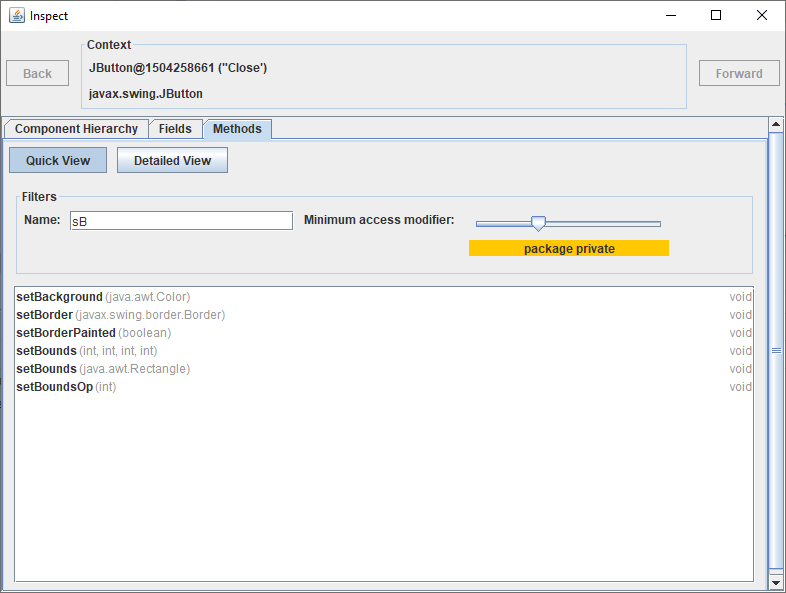
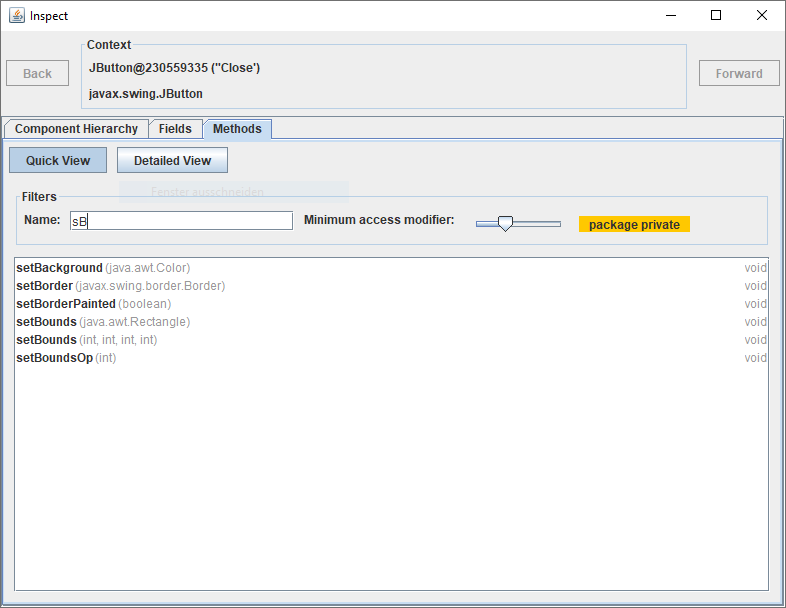
MOD GeneralSettingsPanel, MinimumAccessModifierControls: Distinguish between the minimum access modifier for fields and the minimum access modifier for methods

diff --git a/marple/src/dd/kms/marple/framework/common/PreferenceUtils.java b/marple/src/dd/kms/marple/framework/common/PreferenceUtils.java
@@ -14,6 +14,7 @@ import dd.kms.marple.framework.common.XmlUtils.ParseException;
 import dd.kms.zenodot.api.common.AccessModifier;
 import dd.kms.zenodot.api.settings.EvaluationMode;
 import dd.kms.zenodot.api.settings.ParserSettings;
+import dd.kms.zenodot.api.settings.ParserSettingsBuilder;
 import org.w3c.dom.Document;
 import org.w3c.dom.Element;
 import org.w3c.dom.Node;
@@ -108,7 +109,7 @@ public class PreferenceUtils
 		ExpressionEvaluator evaluator = settings.getEvaluator();
 		CustomActionSettings customActionSettings = settings.getCustomActionSettings();
 		writeEvaluationMode(root, evaluator);
-		writeMinimumAccessModifier(root, evaluator);
+		writeMinimumAccessModifiers(root, evaluator);
 		writeImportedPackages(root, evaluator);
 		writeImportedClasses(root, evaluator);
 		writeCustomActions(root, customActionSettings);
@@ -124,7 +125,7 @@ public class PreferenceUtils
 		ExpressionEvaluator evaluator = settings.getEvaluator();
 		CustomActionSettings customActionSettings = settings.getCustomActionSettings();
 		readEvaluationMode(root, evaluator);
-		readMinimumAccessModifier(root, evaluator);
+		readMinimumAccessModifiers(root, evaluator);
 		readImportedPackages(root, evaluator);
 		readImportedClasses(root, evaluator);
 		readCustomActions(root, customActionSettings);
@@ -153,17 +154,36 @@ public class PreferenceUtils
 		}
 	}
 
-	private static void writeMinimumAccessModifier(Element root, ExpressionEvaluator evaluator) {
-		AccessModifier minimumAccessModifier = evaluator.getParserSettings().getMinimumAccessModifier();
-		XmlUtils.writeValueToChild(root, "MinimumAccessModifier", minimumAccessModifier, ACCESS_MODIFIER_STRING_REPRESENTATIONS::get);
+	private static void writeMinimumAccessModifiers(Element root, ExpressionEvaluator evaluator) {
+		AccessModifier minimumFieldAccessModifier = evaluator.getParserSettings().getMinimumFieldAccessModifier();
+		AccessModifier minimumMethodAccessModifier = evaluator.getParserSettings().getMinimumMethodAccessModifier();
+		XmlUtils.writeValueToChild(root, "MinimumFieldAccessModifier", minimumFieldAccessModifier, ACCESS_MODIFIER_STRING_REPRESENTATIONS::get);
+		XmlUtils.writeValueToChild(root, "MinimumMethodAccessModifier", minimumMethodAccessModifier, ACCESS_MODIFIER_STRING_REPRESENTATIONS::get);
 	}
 
-	private static void readMinimumAccessModifier(Element root, ExpressionEvaluator evaluator) throws ParseException {
+	private static void readMinimumAccessModifiers(Element root, ExpressionEvaluator evaluator) throws ParseException {
+		ParserSettingsBuilder parserSettingsBuilder = evaluator.getParserSettings().builder();
+
+		AccessModifier minimumFieldAccessModifier = XmlUtils.readValueFromChild(root, "MinimumFieldAccessModifier", ACCESS_MODIFIER_STRING_REPRESENTATIONS.inverse()::get);
+		if (minimumFieldAccessModifier != null) {
+			parserSettingsBuilder.minimumFieldAccessModifier(minimumFieldAccessModifier);
+		}
+
+		AccessModifier minimumMethodAccessModifier = XmlUtils.readValueFromChild(root, "MinimumMethodAccessModifier", ACCESS_MODIFIER_STRING_REPRESENTATIONS.inverse()::get);
+		if (minimumMethodAccessModifier != null) {
+			parserSettingsBuilder.minimumMethodAccessModifier(minimumMethodAccessModifier);
+		}
+
+
 		AccessModifier minimumAccessModifier = XmlUtils.readValueFromChild(root, "MinimumAccessModifier", ACCESS_MODIFIER_STRING_REPRESENTATIONS.inverse()::get);
 		if (minimumAccessModifier != null) {
-			ParserSettings parserSettings = evaluator.getParserSettings().builder().minimumAccessModifier(minimumAccessModifier).build();
-			evaluator.setParserSettings(parserSettings);
+			// old serialization
+			parserSettingsBuilder
+				.minimumFieldAccessModifier(minimumAccessModifier)
+				.minimumMethodAccessModifier(minimumAccessModifier);
 		}
+		ParserSettings parserSettings = parserSettingsBuilder.build();
+		evaluator.setParserSettings(parserSettings);
 	}
 
 	private static void writeImportedPackages(Element root, ExpressionEvaluator evaluator) {

diff --git a/marple/src/dd/kms/marple/impl/gui/evaluator/GeneralSettingsPanel.java b/marple/src/dd/kms/marple/impl/gui/evaluator/GeneralSettingsPanel.java
@@ -2,6 +2,7 @@ package dd.kms.marple.impl.gui.evaluator;
 
 import dd.kms.marple.api.InspectionContext;
 import dd.kms.marple.api.gui.Disposable;
+import dd.kms.marple.impl.gui.common.AccessModifierInput;
 
 import javax.swing.*;
 import java.awt.*;
@@ -11,7 +12,8 @@ import static java.awt.GridBagConstraints.*;
 
 public class GeneralSettingsPanel extends JPanel implements Disposable
 {
-	private final JLabel						minimumAccessModifierLabel		= new JLabel("Minimum access modifier:");
+	private final JLabel						minimumFieldAccessModifierLabel		= new JLabel("Minimum field access modifier:");
+	private final JLabel						minimumMethodAccessModifierLabel	= new JLabel("Minimum method access modifier:");
 	private final MinimumAccessModifierControls	minimumAccessModifierControls;
 
 	private final JLabel						evaluationModeLabel = new JLabel("Evaluation mode:");
@@ -21,15 +23,21 @@ public class GeneralSettingsPanel extends JPanel implements Disposable
 		super(new GridBagLayout());
 
 		minimumAccessModifierControls = new MinimumAccessModifierControls(context);
-		evaluationModePanel = new EvaluationModePanel(context, EvaluationModePanel.Alignment.VERTICAL);
+		AccessModifierInput minimumFieldAccessModifierInput = minimumAccessModifierControls.getMinimumFieldAccessModifierInput();
+		AccessModifierInput minimumMethodAccessModifierInput = minimumAccessModifierControls.getMinimumMethodAccessModifierInput();
 
-		add(minimumAccessModifierLabel,					new GridBagConstraints(0, 0, 1, 1, 0.0, 0.0, NORTHWEST, NONE, DEFAULT_INSETS, 0, 0));
-		add(minimumAccessModifierControls.getInput(),	new GridBagConstraints(1, 0, REMAINDER, 1, 1.0, 0.0, NORTHWEST, HORIZONTAL, DEFAULT_INSETS, 0, 0));
+		evaluationModePanel = new EvaluationModePanel(context);
 
-		add(evaluationModeLabel,						new GridBagConstraints(0, 1, 1, 1, 0.0, 0.0, NORTHWEST, NONE, DEFAULT_INSETS, 0, 0));
-		add(evaluationModePanel,						new GridBagConstraints(1, 1, REMAINDER, 1, 1.0, 0.0, NORTHWEST, HORIZONTAL, DEFAULT_INSETS, 0, 0));
+		add(minimumFieldAccessModifierLabel,	new GridBagConstraints(0, 0, 1, 1, 0.0, 0.0, NORTHWEST, NONE, DEFAULT_INSETS, 0, 0));
+		add(minimumFieldAccessModifierInput,	new GridBagConstraints(1, 0, REMAINDER, 1, 1.0, 0.0, NORTHWEST, HORIZONTAL, DEFAULT_INSETS, 0, 0));
 
-		add(new JLabel(),								new GridBagConstraints(0, 3, REMAINDER, 1, 1.0, 1.0, NORTHWEST, BOTH, DEFAULT_INSETS, 0, 0));
+		add(minimumMethodAccessModifierLabel,	new GridBagConstraints(0, 1, 1, 1, 0.0, 0.0, NORTHWEST, NONE, DEFAULT_INSETS, 0, 0));
+		add(minimumMethodAccessModifierInput,	new GridBagConstraints(1, 1, REMAINDER, 1, 1.0, 0.0, NORTHWEST, HORIZONTAL, DEFAULT_INSETS, 0, 0));
+
+		add(evaluationModeLabel,				new GridBagConstraints(0, 2, 1, 1, 0.0, 0.0, NORTHWEST, NONE, DEFAULT_INSETS, 0, 0));
+		add(evaluationModePanel,				new GridBagConstraints(1, 2, REMAINDER, 1, 1.0, 0.0, NORTHWEST, HORIZONTAL, DEFAULT_INSETS, 0, 0));
+
+		add(new JLabel(),						new GridBagConstraints(0, 3, REMAINDER, 1, 1.0, 1.0, NORTHWEST, BOTH, DEFAULT_INSETS, 0, 0));
 
 		minimumAccessModifierControls.updateControls();
 		evaluationModePanel.updateControls();

diff --git a/marple/src/dd/kms/marple/impl/gui/evaluator/MinimumAccessModifierControls.java b/marple/src/dd/kms/marple/impl/gui/evaluator/MinimumAccessModifierControls.java
@@ -9,7 +9,8 @@ import dd.kms.zenodot.api.settings.ParserSettingsBuilder;
 
 class MinimumAccessModifierControls
 {
-	private final AccessModifierInput	minimumAccessModifierInput	= new AccessModifierInput();
+	private final AccessModifierInput	minimumFieldAccessModifierInput		= new AccessModifierInput();
+	private final AccessModifierInput	minimumMethodAccessModifierInput	= new AccessModifierInput();
 
 	private final InspectionContext		context;
 
@@ -18,26 +19,44 @@ class MinimumAccessModifierControls
 
 		updateControls();
 
-		minimumAccessModifierInput.addChangeListener(e -> onMinimumAccessModifierChanged());
+		minimumFieldAccessModifierInput.addChangeListener(e -> onMinimumFieldAccessModifierChanged());
+		minimumMethodAccessModifierInput.addChangeListener(e -> onMinimumMethodAccessModifierChanged());
 	}
 
 	void updateControls() {
-		minimumAccessModifierInput.setAccessModifier(getMinimumAccessModifier());
+		minimumFieldAccessModifierInput.setAccessModifier(getMinimumFieldAccessModifier());
+		minimumMethodAccessModifierInput.setAccessModifier(getMinimumMethodAccessModifier());
 	}
 
-	AccessModifierInput getInput() {
-		return minimumAccessModifierInput;
+	AccessModifierInput getMinimumFieldAccessModifierInput() {
+		return minimumFieldAccessModifierInput;
 	}
 
-	private AccessModifier getMinimumAccessModifier() {
-		return ExpressionEvaluators.getValue(ParserSettings::getMinimumAccessModifier, context);
+	AccessModifierInput getMinimumMethodAccessModifierInput() {
+		return minimumMethodAccessModifierInput;
 	}
 
-	private void setMinimumAccessModifier(AccessModifier minimumAccessModifier) {
-		ExpressionEvaluators.setValue(minimumAccessModifier, ParserSettingsBuilder::minimumAccessModifier, context);
+	private AccessModifier getMinimumFieldAccessModifier() {
+		return ExpressionEvaluators.getValue(ParserSettings::getMinimumFieldAccessModifier, context);
 	}
 
-	private void onMinimumAccessModifierChanged() {
-		setMinimumAccessModifier(minimumAccessModifierInput.getAccessModifier());
+	private AccessModifier getMinimumMethodAccessModifier() {
+		return ExpressionEvaluators.getValue(ParserSettings::getMinimumMethodAccessModifier, context);
+	}
+
+	private void setMinimumFieldAccessModifier(AccessModifier minimumFieldAccessModifier) {
+		ExpressionEvaluators.setValue(minimumFieldAccessModifier, ParserSettingsBuilder::minimumFieldAccessModifier, context);
+	}
+
+	private void setMinimumMethodAccessModifier(AccessModifier minimumMethodAccessModifier) {
+		ExpressionEvaluators.setValue(minimumMethodAccessModifier, ParserSettingsBuilder::minimumMethodAccessModifier, context);
+	}
+
+	private void onMinimumFieldAccessModifierChanged() {
+		setMinimumFieldAccessModifier(minimumFieldAccessModifierInput.getAccessModifier());
+	}
+
+	private void onMinimumMethodAccessModifierChanged() {
+		setMinimumMethodAccessModifier(minimumMethodAccessModifierInput.getAccessModifier());
 	}
 }

diff --git a/marple/src/dd/kms/marple/impl/gui/evaluator/EvaluationModePanel.java b/marple/src/dd/kms/marple/impl/gui/evaluator/EvaluationModePanel.java
@@ -5,6 +5,7 @@ import com.google.common.collect.ImmutableBiMap;
 import com.google.common.collect.ImmutableMap;
 import dd.kms.marple.api.InspectionContext;
 import dd.kms.marple.impl.evaluator.ExpressionEvaluators;
+import dd.kms.zenodot.api.common.AccessModifier;
 import dd.kms.zenodot.api.settings.EvaluationMode;
 import dd.kms.zenodot.api.settings.ParserSettings;
 import dd.kms.zenodot.api.settings.ParserSettingsBuilder;
@@ -69,29 +70,33 @@ class EvaluationModePanel extends JPanel
 
 	private final InspectionContext	context;
 
-	EvaluationModePanel(InspectionContext context, Alignment alignment) {
+	EvaluationModePanel(InspectionContext context) {
 		super(new GridBagLayout());
 
 		this.context = context;
 
-		switch (alignment) {
-			case HORIZONTAL:
-				add(evaluationModeSlider,	new GridBagConstraints(0, 0, 1, 1, 0.0, 0.0, WEST, NONE, DEFAULT_INSETS, 0, 0));
-				add(evaluationModeLabel,	new GridBagConstraints(1, 0, 1, 1, 0.0, 0.0, WEST, NONE, DEFAULT_INSETS, 0, 0));
-				break;
-			case VERTICAL:
-				add(evaluationModeSlider,	new GridBagConstraints(0, 0, 1, 1, 1.0, 0.0, WEST, HORIZONTAL, DEFAULT_INSETS, 0, 0));
-				add(evaluationModeLabel,	new GridBagConstraints(0, 1, 1, 1, 1.0, 0.0, CENTER, HORIZONTAL, new Insets(3, 5, 10, 5), 0, 0));
-				break;
-			default:
-				throw new UnsupportedOperationException("Unsupported alignment: " + alignment);
-		}
+		add(evaluationModeSlider,	new GridBagConstraints(0, 0, 1, 1, 1.0, 0.0, WEST, HORIZONTAL, DEFAULT_INSETS, 0, 0));
+		add(evaluationModeLabel,	new GridBagConstraints(1, 0, 1, 1, 0.0, 0.0, WEST, NONE, DEFAULT_INSETS, 0, 0));
 
 		evaluationModeLabel.setHorizontalAlignment(SwingConstants.CENTER);
+
+		setPreferredEvaluationModeLabelSize();
 
 		updateControls();
 
 		evaluationModeSlider.addChangeListener(e -> onTypingChangedBySlider());
+	}
+
+	private void setPreferredEvaluationModeLabelSize() {
+		String oldText = evaluationModeLabel.getText();
+		Dimension maxPreferredSize = new Dimension(0, 0);
+		for (EvaluationMode evaluationMode : EvaluationMode.values()) {
+			evaluationModeLabel.setText(EVALUATION_MODE_TEXTS.get(evaluationMode));
+			Dimension preferredSize = evaluationModeLabel.getPreferredSize();
+			maxPreferredSize = new Dimension(Math.max(maxPreferredSize.width, preferredSize.width + 20), Math.max(maxPreferredSize.height, preferredSize.height));
+		}
+		evaluationModeLabel.setText(oldText);
+		evaluationModeLabel.setPreferredSize(maxPreferredSize);
 	}
 
 	private EvaluationMode getEvaluationMode() {
@@ -122,6 +127,4 @@ class EvaluationModePanel extends JPanel
 		evaluationModeLabel.setText(evaluationModeText);
 		evaluationModeLabel.setToolTipText(evaluationModeInfoText);
 	}
-
-	enum Alignment {HORIZONTAL, VERTICAL}
 }

diff --git a/marple/src/dd/kms/marple/impl/gui/common/AccessModifierInput.java b/marple/src/dd/kms/marple/impl/gui/common/AccessModifierInput.java
@@ -25,7 +25,10 @@ public class AccessModifierInput extends JPanel
 		super(new GridBagLayout());
 
 		add(slider,					new GridBagConstraints(0, 0, 1, 1, 1.0, 0.0, WEST, HORIZONTAL, DEFAULT_INSETS, 0, 0));
-		add(accessModifierLabel,	new GridBagConstraints(0, 1, 1, 1, 1.0, 0.0, CENTER, HORIZONTAL, new Insets(3, 5, 10, 5), 0, 0));
+		add(accessModifierLabel,	new GridBagConstraints(1, 0, 1, 1, 0.0, 0.0, WEST, HORIZONTAL, DEFAULT_INSETS, 0, 0));
+
+		setPreferredSliderSize();
+		setPreferredAccessModifierLabelSize();
 
 		accessModifierLabel.setHorizontalAlignment(SwingConstants.CENTER);
 		accessModifierLabel.setOpaque(true);
@@ -37,6 +40,26 @@ public class AccessModifierInput extends JPanel
 
 	private void addListeners() {
 		slider.addChangeListener(e -> onSliderChanged());
+	}
+
+	private void setPreferredSliderSize() {
+		Dimension preferredSize = slider.getPreferredSize();
+		if (preferredSize == null) {
+			return;
+		}
+		slider.setPreferredSize(new Dimension(100, preferredSize.height));
+	}
+
+	private void setPreferredAccessModifierLabelSize() {
+		String oldText = accessModifierLabel.getText();
+		Dimension maxPreferredSize = new Dimension(0, 0);
+		for (AccessModifier accessModifier : AccessModifier.values()) {
+			accessModifierLabel.setText(accessModifier.toString());
+			Dimension preferredSize = accessModifierLabel.getPreferredSize();
+			maxPreferredSize = new Dimension(Math.max(maxPreferredSize.width, preferredSize.width + 20), Math.max(maxPreferredSize.height, preferredSize.height));
+		}
+		accessModifierLabel.setText(oldText);
+		accessModifierLabel.setPreferredSize(maxPreferredSize);
 	}
 
 	private void updateLabelText() {

diff --git a/marple-tests/test/dd/kms/marple/TestUtils.java b/marple-tests/test/dd/kms/marple/TestUtils.java
@@ -57,7 +57,8 @@ class TestUtils
 		CustomHierarchyParserExtension customHierarchyParserExtension = CustomHierarchyParserExtension.create(customHierarchyRoot);
 
 		ParserSettings parserSettings = customHierarchyParserExtension.configure(parserSettingsBuilder)
-			.minimumAccessModifier(AccessModifier.PRIVATE)
+			.minimumFieldAccessModifier(AccessModifier.PRIVATE)
+			.minimumMethodAccessModifier(AccessModifier.PUBLIC)
 			.importPackages(ImmutableSet.of(importPackage1, importPackage2, importPackage3))
 			.importClassesByName(ImmutableSet.of(importClass1, importClass2))
 			.considerAllClassesForClassCompletions(true)

diff --git a/marple/src/dd/kms/marple/impl/gui/evaluator/EvaluationPanel.java b/marple/src/dd/kms/marple/impl/gui/evaluator/EvaluationPanel.java
@@ -27,7 +27,7 @@ public class EvaluationPanel extends JPanel implements Disposable
 
 		this.evaluationTextField = new ExpressionInputTextField(context);
 		this.evaluationTextFieldPanel = new EvaluationTextFieldPanel(evaluationTextField, context);
-		this.evaluationModePanel = new EvaluationModePanel(context, EvaluationModePanel.Alignment.HORIZONTAL);
+		this.evaluationModePanel = new EvaluationModePanel(context);
 		this.resultPanel = new ResultPanel(context);
 
 		add(expressionPanel,	new GridBagConstraints(0, 0, REMAINDER, 1, 1.0, 0.0, CENTER, HORIZONTAL, new Insets(0, 0, 5, 0), 0, 0));

diff --git a/README.md b/README.md
@@ -313,7 +313,7 @@ The builder allows you, among others,
 
   * to configure the behavior of code completions (currently not configurable via API)
   * to specify the [imports](#imports) (classes and packages),
-  * to specify the minimum access modifier (`private`, `package private`, `protected`, or `public`) a field or method must have in order to be accessed from within expressions
+  * to specify the minimum access modifier (`private`, `package private`, `protected`, or `public`) a field, method, or constructor must have in order to be accessed from within expressions
   * to choose the [evaluation mode](#evaluation-modes)
 
 See the [parser settings](https://github.com/tbrunsch/Zenodot#parser-settings) documentation of Zenodot for more details on these features.
@@ -625,7 +625,7 @@ The evaluation settings dialog consists of three tabs:
 
 If you have registered additional evaluation settings via `EvaluationSettingsBuilder.setAdditionalSettings()`, then one additional tab per additional settings with the specified titles will be displayed.
 
-In the "General Settings" tab you can specify the minimum access modifier fields and methods must have in order to be accessible in expressions. Additionally, you can specify the [evaluation mode](#evaluation-modes):
+In the "General Settings" tab you can specify the minimum access modifier fields, methods, and constructors must have in order to be accessible in expressions. Additionally, you can specify the [evaluation mode](#evaluation-modes):
 
 ![General Settings](images/evaluation_dialog/settings/general.png)
 

diff --git a/changelog.md b/changelog.md
@@ -8,6 +8,7 @@
   - added possibility to specify custom `List`, `Iterable`, and `Map` views for certain objects via `VisualSettingsBuilder.listView()`, `VisualSettingsBuilder.iterableView()`, and `VisualSettingsBuilder.mapView()`
   - Marple can now be extended by additional evaluation settings via `EvaluationSettingsBuilder.setAdditionalSettings()`
   - The expression history is not cleared anymore when the evaluation dialog is closed.
+  - Marple now distinguished between the minimum access modifier for fields and the minimum access modifier for methods (and constructors).
 
 Behavioral changes:
   - Marple does not inherently provide `List` views for Apache primitive lists anymore because they can now be specified by the API user if required.
